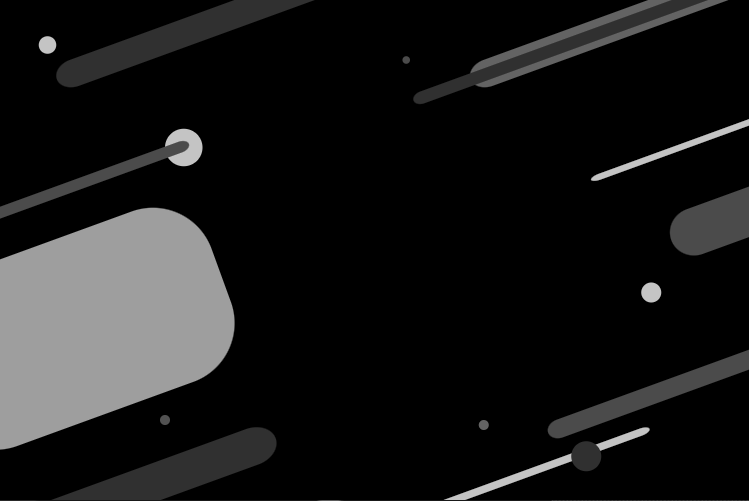
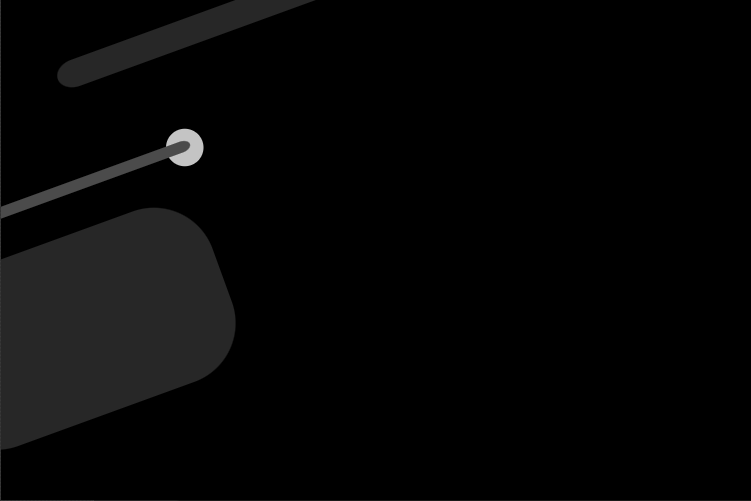
Modified dark mode

diff --git a/src/main/resources/css/darkMode.css b/src/main/resources/css/darkMode.css
@@ -1,9 +1,9 @@
 
 #background{
-    -fx-background-image: url('/images/stream_DarkModeUI_background.png');
+    -fx-background-image: url('/images/darkModeExperimental.png');
     -fx-background-repeat: no-repeat;
     -fx-background-size: 1215 765;
-    -fx-background-color:  black;
+    -fx-background-color:  #303030;
 }
 
 #stream{
@@ -35,7 +35,7 @@
 }
 
 #boxes {
-    -fx-background-color:  #9e9e9e;
+    -fx-background-color: #272727;
     -fx-background-radius: 50;
     -fx-blend-mode: src-atop;
 }
@@ -53,9 +53,17 @@
     -fx-background-color: transparent;
 }
 
+#startDownload{
+    -fx-text-fill: white;
+    -fx-font-size: 25px;
+    -fx-font-weight: bold;
+    -fx-background-color: transparent;
+}
+
 #placeholder{
     -fx-font-size: 12px;
-    -fx-text-fill: black;
+    -fx-text-fill: white;
+    -fx-background-color: #606060;
 }
 
 #text1{
@@ -65,9 +73,22 @@
     -fx-background-color: transparent;
 }
 
+#textboxes{
+    -fx-background-color: #606060;
+    -fx-text-fill: white;
+}
+
+#OptionsText{
+    -fx-text-fill: white;
+    -fx-font-size: 25px;
+    -fx-font-weight: bold;
+    -fx-background-color: transparent;
+}
+
 #text2{
     -fx-text-fill: white;
     -fx-font-size: 17px;
+    -fx-background-color: #606060;
 }
 
 #TableViews{
@@ -85,18 +106,20 @@
 
 .table-view .column-header .label{
     -fx-text-fill: white;
-    -fx-alignment: center;
+    -fx-font-size: 17px;
 }
 
 #downloadDir{
     -fx-font-size: 17px;
     -fx-text-fill: white;
+    -fx-background-color: #606060;
 }
 
 #comboBoxLanguage{
     -fx-font-size: 15px;
     -fx-alignment: center;
     -fx-text-fill: white;
+    -fx-background-color: #606060;
 }
 
 .combo-box>.list-cell {
@@ -110,11 +133,11 @@
 }
 
 #aboutBackground{
-    -fx-background-color: transparent;
+    -fx-background-color: #606060;
 }
 
 #rectTimer{
-    -fx-fill: black;
+    -fx-fill: #272727;
 }
 
 #textTimer{

diff --git a/src/main/resources/css/lightMode.css b/src/main/resources/css/lightMode.css
@@ -46,7 +46,21 @@
     -fx-font-weight: bold;
 }
 
+#OptionsText{
+    -fx-text-fill: #303030;
+    -fx-font-size: 25px;
+    -fx-font-weight: bold;
+    -fx-background-color: transparent;
+}
+
 #heading2{
+    -fx-text-fill: #303030;
+    -fx-font-size: 25px;
+    -fx-font-weight: bold;
+    -fx-background-color: transparent;
+}
+
+#startDownload{
     -fx-text-fill: #303030;
     -fx-font-size: 25px;
     -fx-font-weight: bold;
@@ -68,6 +82,11 @@
 #text2{
     -fx-text-fill: #303030;
     -fx-font-size: 17px;
+}
+
+#textboxes{
+    -fx-background-color: white;
+    -fx-text-fill: #303030;
 }
 
 #TableViews{

diff --git a/src/main/java/streamUI/UI_Controller_main_page.java b/src/main/java/streamUI/UI_Controller_main_page.java
@@ -12,6 +12,7 @@ import client.StreamClient;
 import com.google.inject.Module;
 import javafx.animation.KeyFrame;
 import javafx.animation.Timeline;
+import javafx.application.Application;
 import javafx.fxml.FXML;
 import javafx.fxml.FXMLLoader;
 import javafx.fxml.Initializable;
@@ -24,6 +25,7 @@ import javafx.scene.input.MouseEvent;
 import javafx.scene.layout.AnchorPane;
 import javafx.scene.layout.GridPane;
 import javafx.scene.layout.VBox;
+import javafx.scene.paint.Color;
 import javafx.stage.DirectoryChooser;
 import javafx.stage.FileChooser;
 import javafx.stage.Stage;
@@ -345,19 +347,27 @@ public class UI_Controller_main_page implements Initializable {
      * @param tableView given tableView which is modified in this method
      * @param labels contains the values in a given language for the columns and placeholders
      */
-    private void initializeTableView (TableView<Object> tableView, ResourceBundle labels) {
+    private void initializeTableView (TableView tableView, ResourceBundle labels) {
+
+        Label placeholderLabel = null;
 
         //checks which tableView is given and sets the matching placeholder
         if (tableView.getId().equals(TVTorrentsList.getId())) {
-            tableView.setPlaceholder(new Label(labels.getString("TVTorrents_NoContent")));
+            placeholderLabel = new Label(labels.getString("TVTorrents_NoContent"));
         } else if (tableView.getId().equals(TVDownloadingTorrentsList.getId())) {
-            tableView.setPlaceholder(new Label(labels.getString("TVDownloading_NoContent")));
+            placeholderLabel = new Label(labels.getString("TVDownloading_NoContent"));
         } else if (tableView.getId().equals(TVUploadingTorrentsList.getId())) {
-            tableView.setPlaceholder(new Label(labels.getString("TVUploading_NoContent")));
+            placeholderLabel = new Label(labels.getString("TVUploading_NoContent"));
         } else if (tableView.getId().equals(TVFinishedTorrentsList.getId())) {
-            tableView.setPlaceholder(new Label(labels.getString("TVFinished_NoContent")));
+            placeholderLabel = new Label(labels.getString("TVFinished_NoContent"));
         }
 
+        tableView.setPlaceholder(placeholderLabel);
+        if (togDarkMode.isSelected()) {
+            placeholderLabel.setTextFill(Color.WHITE);
+        } else {
+            placeholderLabel.setTextFill(Color.BLACK);
+        }
         tableView.setVisible(true);
 
         //create new columns in the given language
@@ -408,7 +418,7 @@ public class UI_Controller_main_page implements Initializable {
 
     /**
      * function is called if user clicks on toggleButton 'Dark mode'
-     * ToDo: implement .css files for light and dark mode
+     * writes the decision of the user in the java preferences
      */
     @FXML
     public void handleOnClickedtogDarkMode() {
@@ -419,10 +429,12 @@ public class UI_Controller_main_page implements Initializable {
             GProot.getStylesheets().clear();
             GProot.getStylesheets().add(darkMode);
             togDarkMode.setText(labels.getString("togDarkModeOn"));
+            pref.put("darkMode", "true");
         } else {
             GProot.getStylesheets().clear();
             GProot.getStylesheets().add(lightMode);
             togDarkMode.setText(labels.getString("togDarkModeOff"));
+            pref.put("darkMode", "false");
         }
     }
 
@@ -556,12 +568,20 @@ public class UI_Controller_main_page implements Initializable {
         String prefLanguage = pref.get("language", Locale.GERMAN.toString());
         Locale currentLocale = Locale.forLanguageTag(prefLanguage);
 
-        GProot.getStylesheets().clear();
-        GProot.getStylesheets().add(lightMode);
+        if (pref.get("darkMode", "false").equals("true")) {
+            togDarkMode.setSelected(true);
+            handleOnClickedtogDarkMode();
+
+        } else {
+            togDarkMode.setSelected(false);
+            handleOnClickedtogDarkMode();
+        }
+
 
         this.parentStage = root;
         handleOnClickedbtnTorrents();
         initializecboxSelectLanguage();
+
         initializeSPane(sPaneAboutStream);
         root.setOnShown(e ->
                 sPaneAboutStream.lookup(".scroll-pane").lookup(".viewport").setStyle("-fx-background-color:  #transparent; -fx-blend-mode: src-over"));
@@ -621,9 +641,12 @@ public class UI_Controller_main_page implements Initializable {
      */
     @FXML
     public void handleOnMenuEntryEntered(MouseEvent event) {
-
         Button btnEnteredBtn = (Button) event.getSource();
-        btnEnteredBtn.setStyle(btnEnteredBtn.getStyle() + "; -fx-underline: true; -fx-text-fill:  #1b3957");
+        if (togDarkMode.isSelected()) {
+            btnEnteredBtn.setStyle(btnEnteredBtn.getStyle() + "; -fx-underline: true; -fx-text-fill:  #606060");
+        } else {
+            btnEnteredBtn.setStyle(btnEnteredBtn.getStyle() + "; -fx-underline: true; -fx-text-fill:  #1b3957");
+        }
 
     }
 
@@ -634,9 +657,12 @@ public class UI_Controller_main_page implements Initializable {
      */
     @FXML
     public void handleOnMenuEntryLeft(MouseEvent event) {
-
         Button btnLeftbtn = (Button) event.getSource();
-        btnLeftbtn.setStyle(btnLeftbtn.getStyle() + "; -fx-underline: false; -fx-text-fill: white");
+        if (togDarkMode.isSelected()) {
+            btnLeftbtn.setStyle(btnLeftbtn.getStyle() + "; -fx-underline: false; -fx-text-fill: white");
+        } else {
+            btnLeftbtn.setStyle(btnLeftbtn.getStyle() + "; -fx-underline: false; -fx-text-fill: white");
+        }
     }
 
     /**
@@ -646,9 +672,12 @@ public class UI_Controller_main_page implements Initializable {
      */
     @FXML
     public void handleOnSelectFileEntered (MouseEvent event) {
-
         Button btnEnteredBtn = (Button)event.getSource();
-        btnEnteredBtn.setStyle(btnEnteredBtn.getStyle() + "; -fx-background-color:  #1b3957; -fx-text-fill: white");
+        if (togDarkMode.isSelected()) {
+            btnEnteredBtn.setStyle(btnEnteredBtn.getStyle() + "; -fx-background-color:  #606060; -fx-text-fill: white");
+        } else {
+            btnEnteredBtn.setStyle(btnEnteredBtn.getStyle() + "; -fx-background-color:  #1b3957; -fx-text-fill: white");
+        }
 
     }
 
@@ -660,7 +689,11 @@ public class UI_Controller_main_page implements Initializable {
     @FXML
     public void handleOnSelectFileLeft (MouseEvent event) {
         Button btnLeftbtn = (Button)event.getSource();
-        btnLeftbtn.setStyle(btnLeftbtn.getStyle() + "; -fx-background-color: transparent; -fx-text-fill: black");
+        if (togDarkMode.isSelected()) {
+            btnLeftbtn.setStyle(btnLeftbtn.getStyle() + "; -fx-background-color: transparent; -fx-text-fill: white");
+        } else {
+            btnLeftbtn.setStyle(btnLeftbtn.getStyle() + "; -fx-background-color: transparent; -fx-text-fill: black");
+        }
     }
 
 
